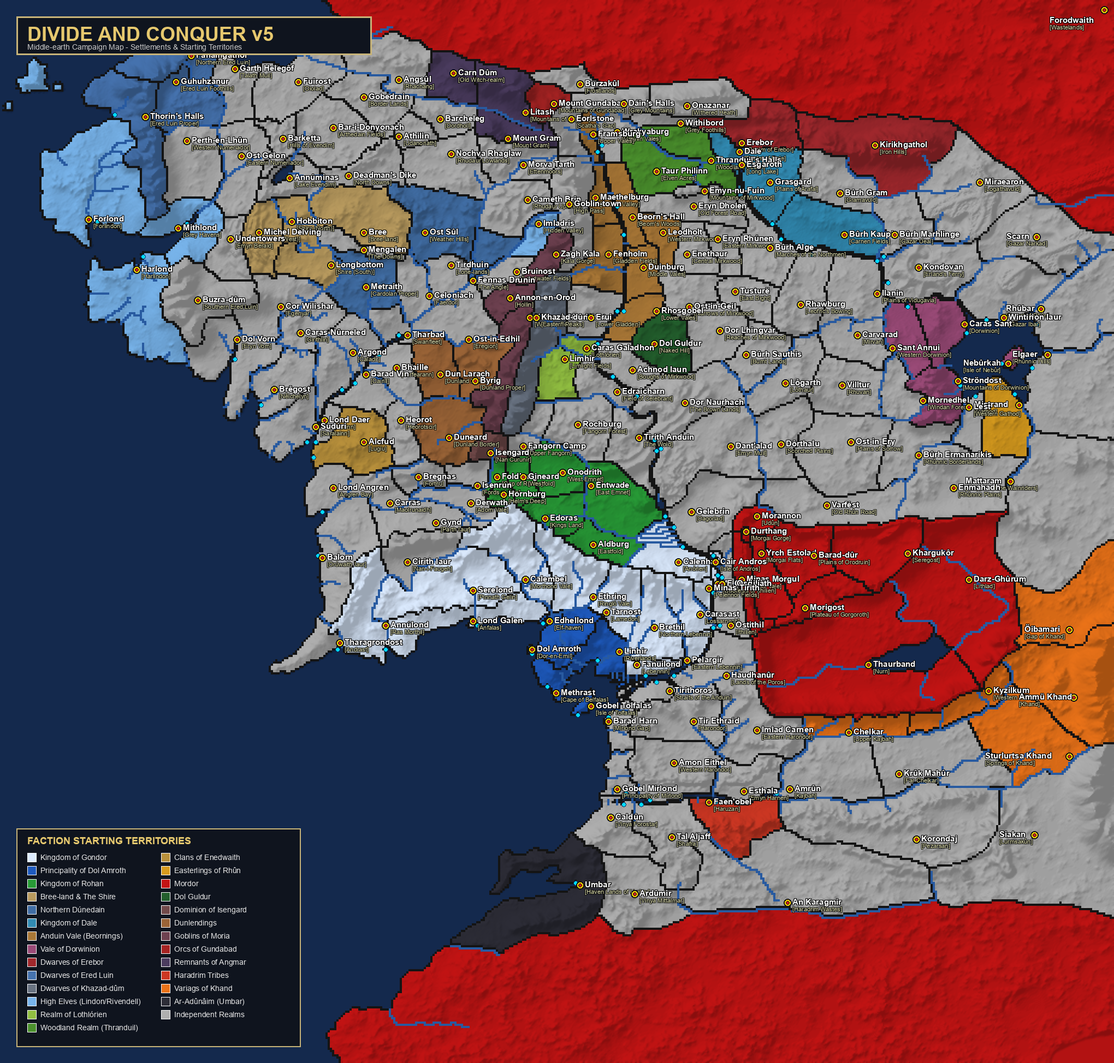
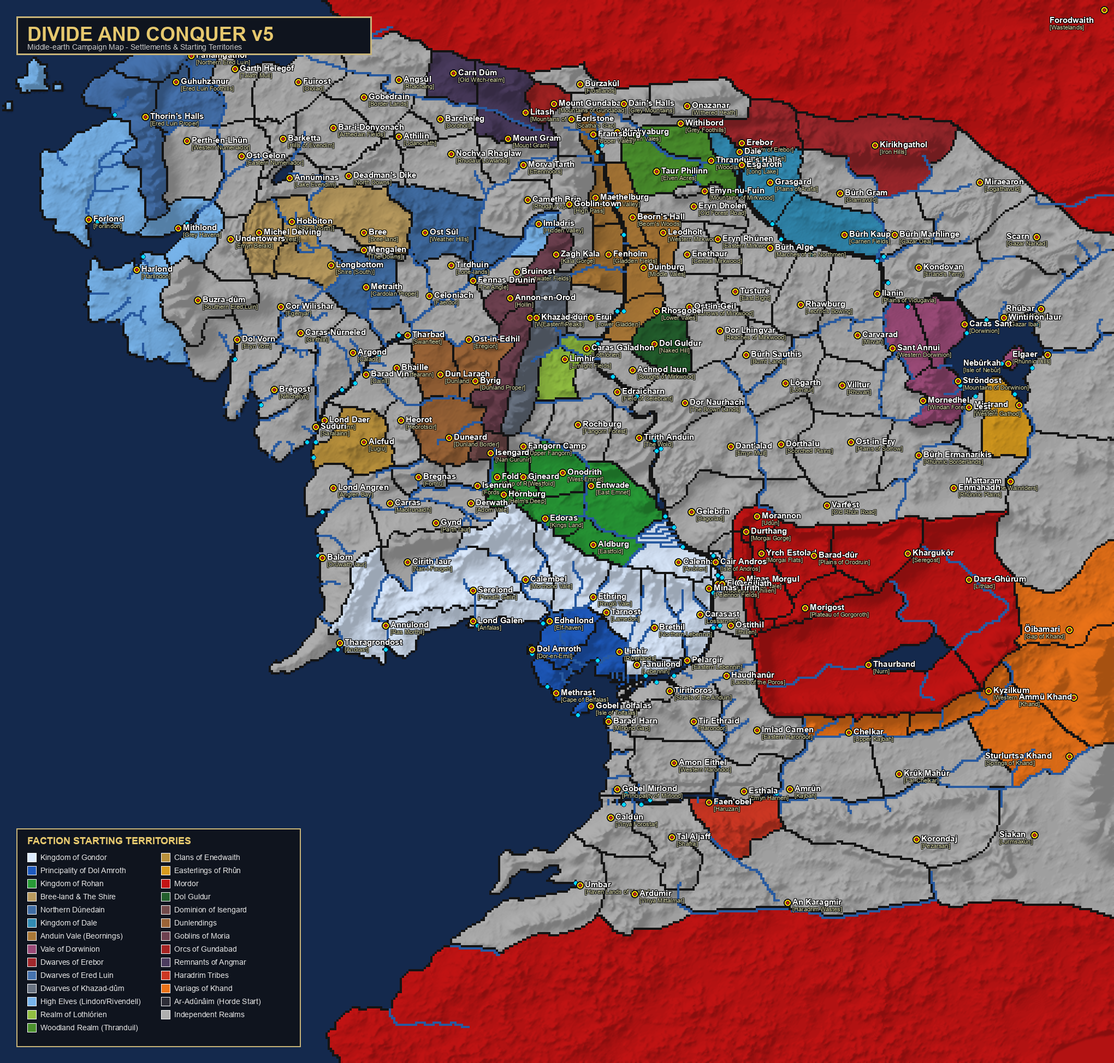
Correct Umbar starting territory to Independent Realms due to Turn 1 Ar-Adunaim scripted horde start

Changed region(s): [[0.4015, 0.77, 0.5559, 0.8932]]

diff --git a/render_maps.py b/render_maps.py
@@ -1,4 +1,4 @@
-import os, sys, re, json
+import os, sys, re, json
 import numpy as np
 from PIL import Image, ImageDraw, ImageFont
 
@@ -56,7 +56,7 @@ faction_display_titles = {
     'portugal': 'Remnants of Angmar',
     'spain': 'Haradrim Tribes',
     'khand': 'Variags of Khand',
-    'russia': 'Ar-Adûnâim (Corsairs of Umbar)',
+    'russia': 'Ar-Adûnâim (Horde Start)',
     'papal_states': 'Dark Lord of Mordor',
     'slave': 'Independent Realms'
 }
@@ -172,8 +172,12 @@ for i, line in enumerate(strat_lines):
                 reg = m_reg.group(1)
                 break
         if reg and current_faction and reg in regions:
-            regions[reg]["owner"] = current_faction
-            regions[reg]["owner_display"] = faction_display_titles.get(current_faction, current_faction.replace("_", " ").title())
+            if reg == "Umbar_Province" and current_faction == "russia":
+                regions[reg]["owner"] = "slave"
+                regions[reg]["owner_display"] = "Independent Realms"
+            else:
+                regions[reg]["owner"] = current_faction
+                regions[reg]["owner_display"] = faction_display_titles.get(current_faction, current_faction.replace("_", " ").title())
 
 # 4. Load map_regions.tga & map settlements/ports
 print("4. Locating all settlements and ports on map_regions.tga...")
@@ -474,7 +478,7 @@ legend_factions = [
     ("portugal", "Remnants of Angmar"),
     ("spain", "Haradrim Tribes"),
     ("khand", "Variags of Khand"),
-    ("russia", "Ar-Adûnâim (Umbar)"),
+    ("russia", "Ar-Adûnâim (Horde Start)"),
     ("slave", "Independent Realms")
 ]
 
